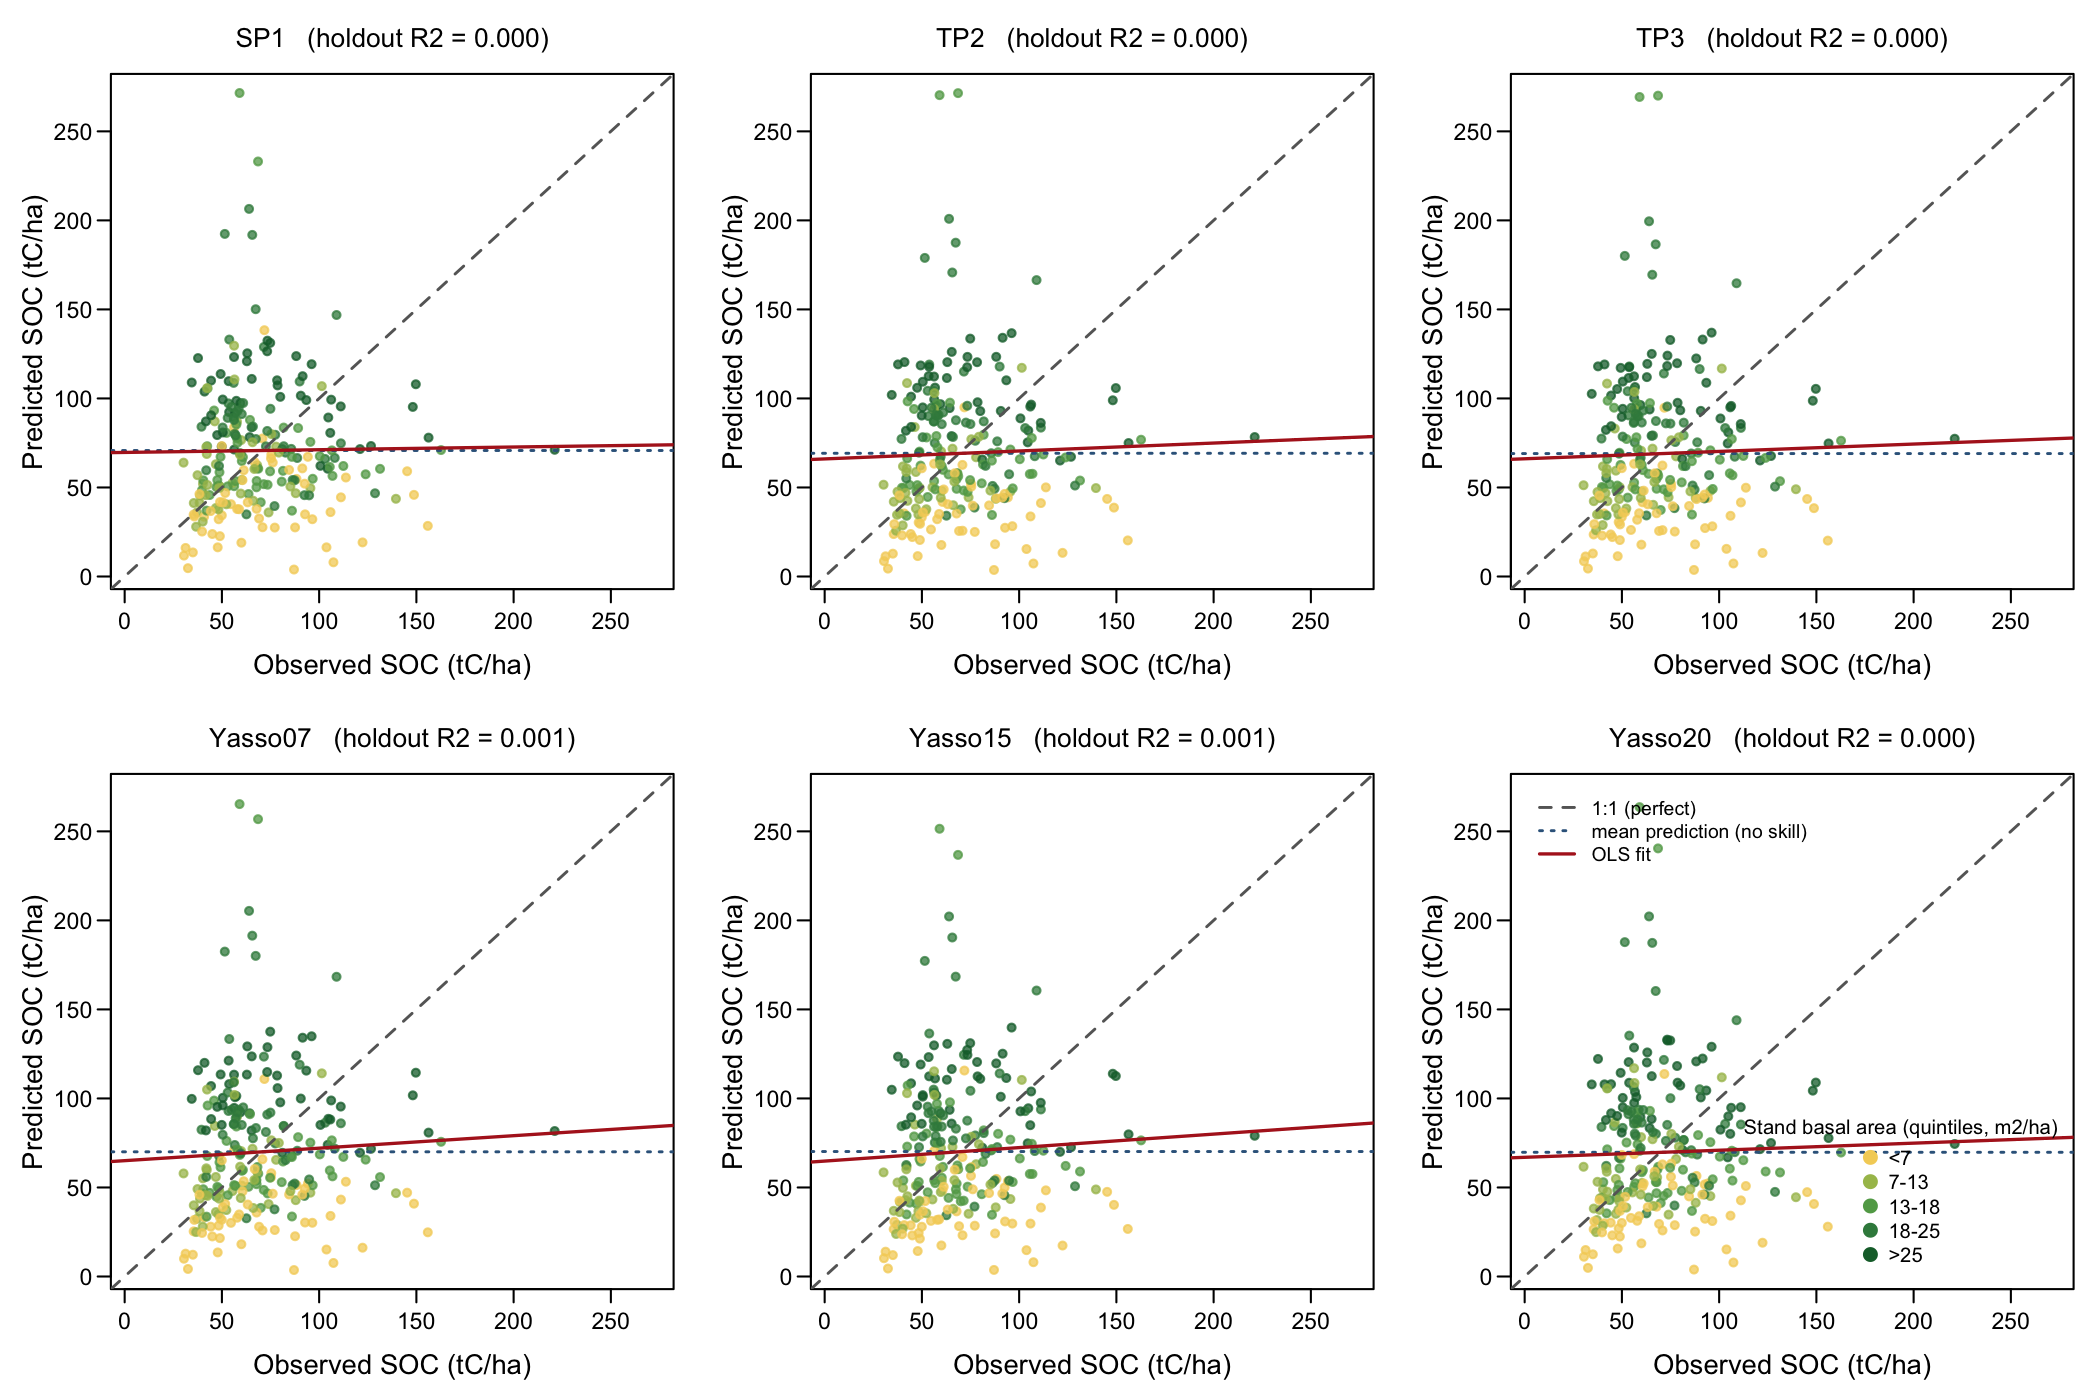
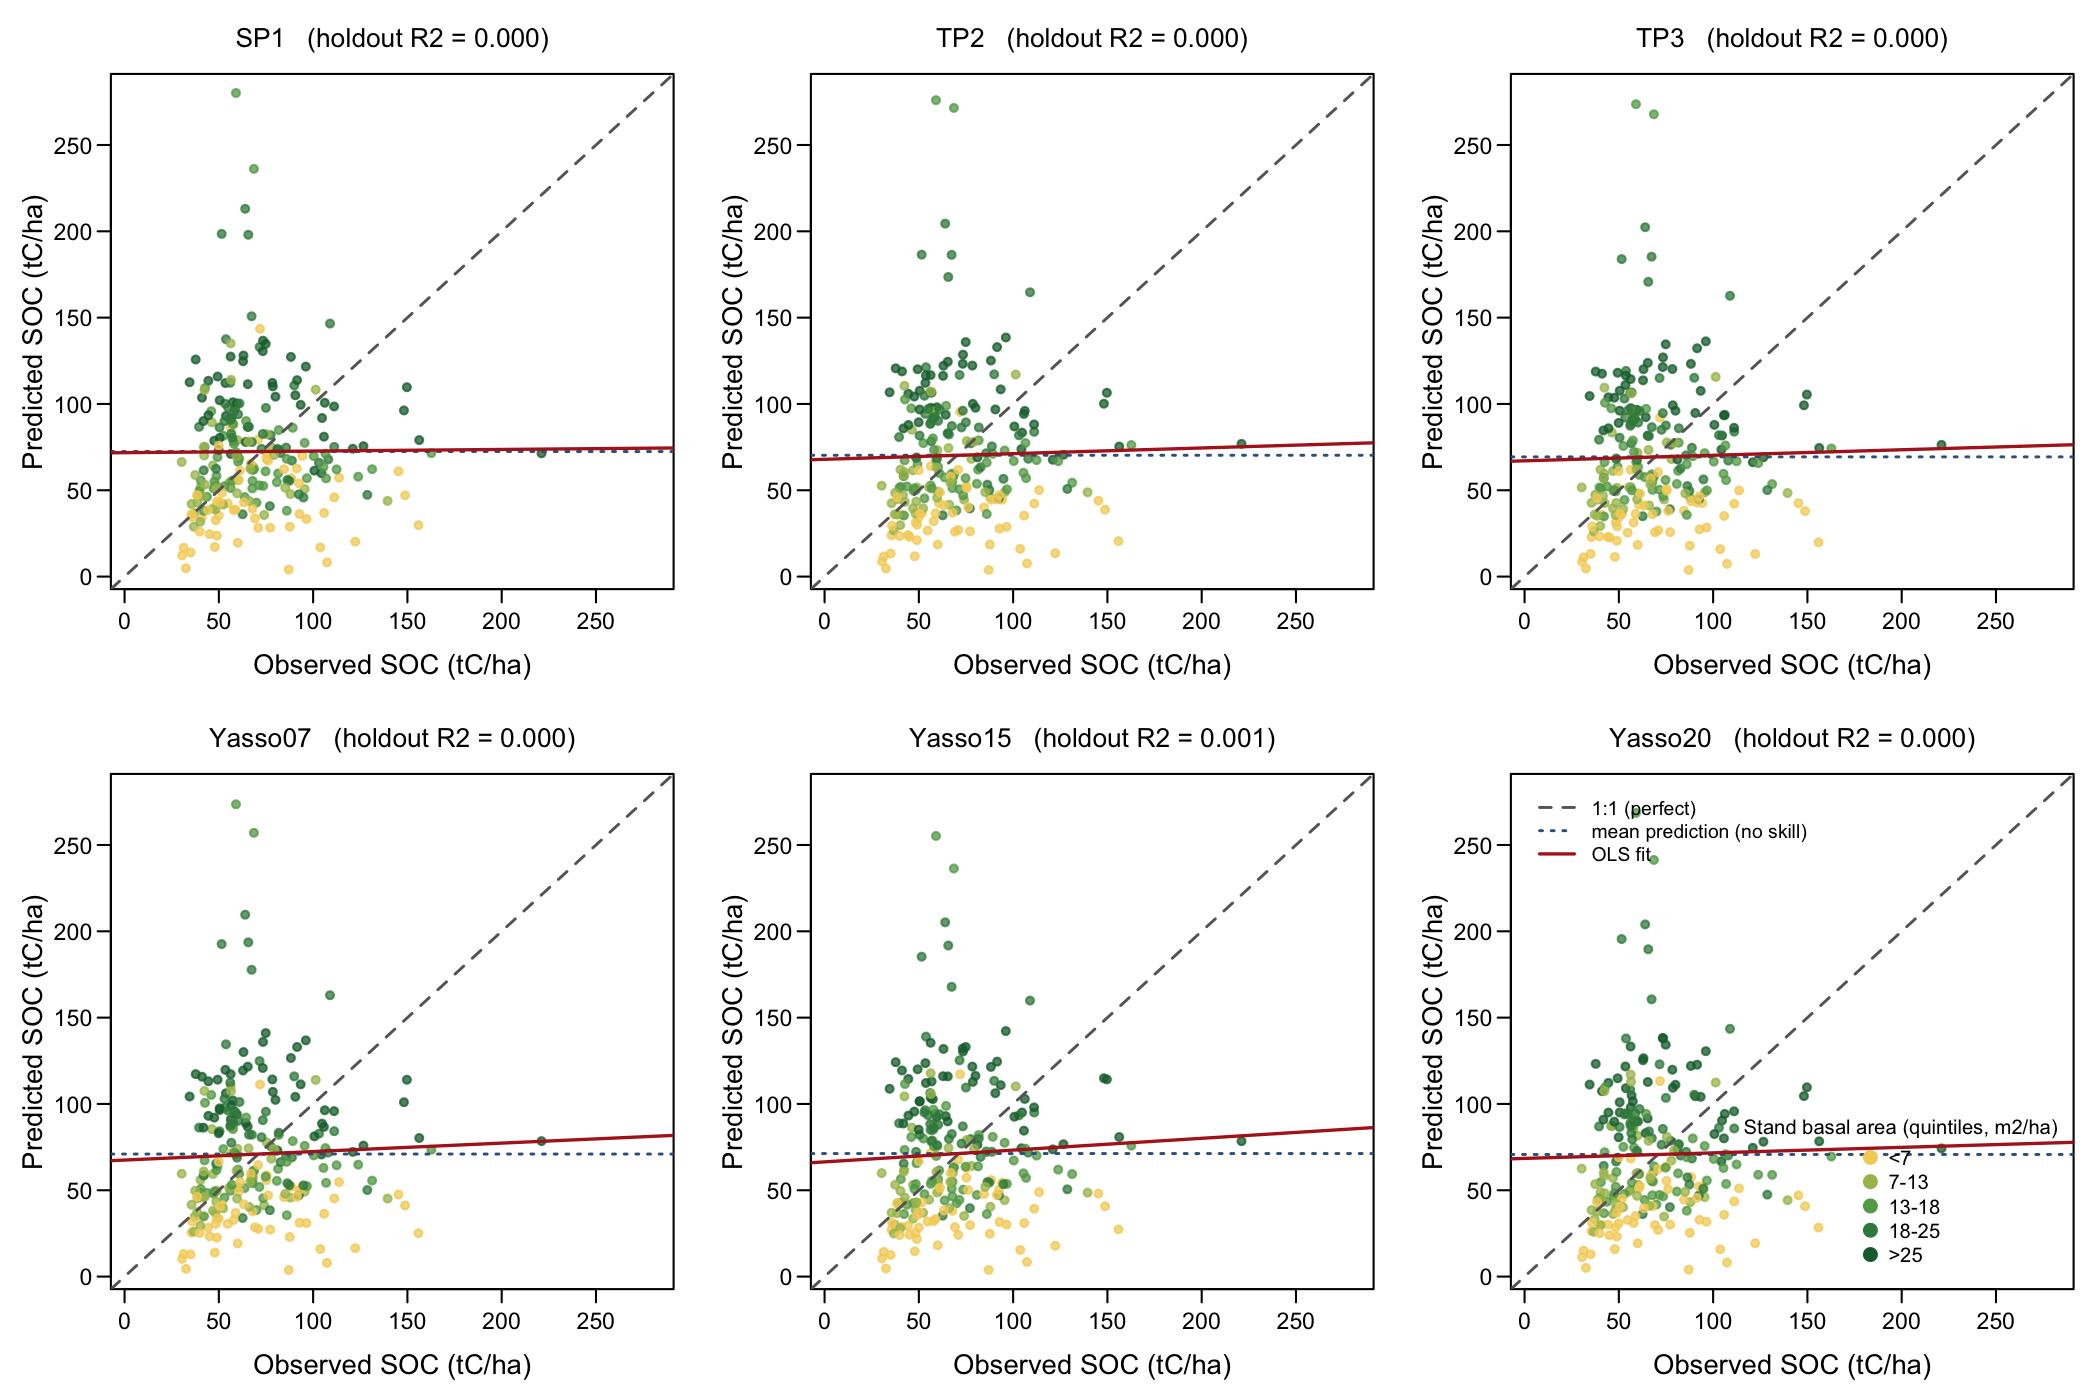
Refresh manuscript figures from the Liski-input run; fix the F3/T1 cache key
build_F3_mean_soc.R and build_T1_model_summary.R still read the pre-rename
F4_cache_bal_ key after F4 became F4_cache_bal_c3_, so both had been erroring
since 2026-08-20 and the F3/T1 in the manuscript came from a pre-C3 linear-ramp
cache. Repointed; figures rebuilt against 20260820_1554*.

SX_input_vs_literature regenerated: effective flux medians 3.39-4.73 tC/ha/yr,
all inside the boreal NPP envelope.

diff --git a/manuscript/figures/T1_model_summary.tex b/manuscript/figures/T1_model_summary.tex
@@ -4,11 +4,11 @@
 Model & Pools & Free & $R^2$ & $R^2$ & RMSE & Eff.\ flux & $\sigma_{\mathrm{init}}$ \\
  & & params & (cal) & (hold) & (hold) & $\sigma_{\mathrm{inp}}\bar J$ & \\
 \hline
-SP1 & 1 & 6 & 0.016 & 0.000 & 47 & 3.1 & 0.90 \\
-TP2 & 2 & 7 & 0.017 & 0.000 & 48 & 4.3 & 0.51 \\
-TP3 & 3 & 9 & 0.016 & 0.000 & 48 & 4.3 & 0.50 \\
-Yasso07 & 5 & 20 & 0.020 & 0.001 & 48 & 3.9 & 0.55 \\
-Yasso15 & 5 & 26 & 0.022 & 0.001 & 47 & 3.8 & 0.57 \\
-Yasso20 & 5 & 26 & 0.017 & 0.000 & 47 & 4.1 & 0.61 \\
+SP1 & 1 & 6 & 0.016 & 0.000 & 48 & 3.3 & 0.90 \\
+TP2 & 2 & 7 & 0.015 & 0.000 & 49 & 4.6 & 0.53 \\
+TP3 & 3 & 9 & 0.015 & 0.000 & 49 & 4.7 & 0.52 \\
+Yasso07 & 5 & 20 & 0.018 & 0.000 & 48 & 4.2 & 0.56 \\
+Yasso15 & 5 & 26 & 0.021 & 0.001 & 47 & 4.0 & 0.57 \\
+Yasso20 & 5 & 26 & 0.016 & 0.000 & 48 & 4.4 & 0.61 \\
 \hline
 \end{tabular}

diff --git a/manuscript/figures/T2_fraction_ridges.tex b/manuscript/figures/T2_fraction_ridges.tex
@@ -4,10 +4,10 @@
  Source pool & Fraction pair & Posterior $r$ & Interpretation \\
 \hline
 N & $p_{NA}\!\leftrightarrow\! p_{NE}$ & -0.98 & net-flux trade-off \\
-E & $p_{EA}\!\leftrightarrow\! p_{EN}$ & -0.86 & net-flux trade-off \\
-A & $p_{AW}\!\leftrightarrow\! p_{AN}$ & -0.83 & net-flux trade-off \\
+E & $p_{EA}\!\leftrightarrow\! p_{EN}$ & -0.88 & net-flux trade-off \\
+A & $p_{AW}\!\leftrightarrow\! p_{AN}$ & -0.82 & net-flux trade-off \\
 A & $p_{AW}\!\leftrightarrow\! p_{AE}$ & -0.80 & net-flux trade-off \\
-N & $p_{NA}\!\leftrightarrow\! p_{NW}$ & -0.71 & net-flux trade-off \\
-W & $p_{WA}\!\leftrightarrow\! p_{WN}$ & -0.65 & net-flux trade-off \\
+N & $p_{NA}\!\leftrightarrow\! p_{NW}$ & -0.69 & net-flux trade-off \\
+W & $p_{WA}\!\leftrightarrow\! p_{WN}$ & -0.66 & net-flux trade-off \\
 \hline
 \end{tabular}
